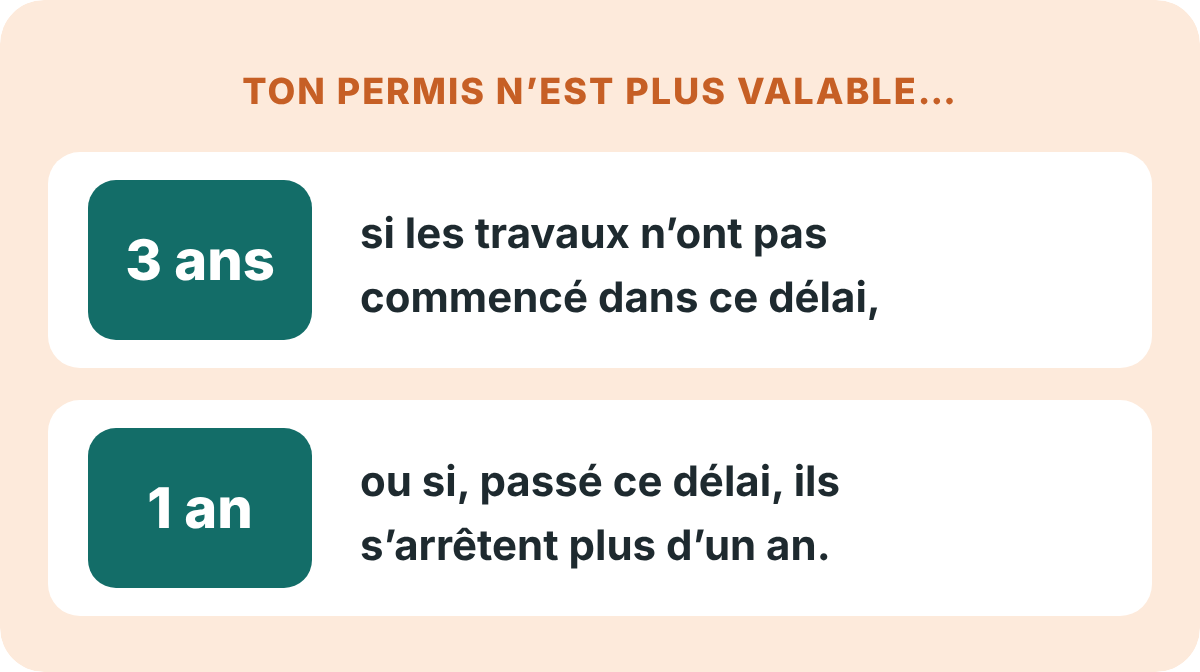
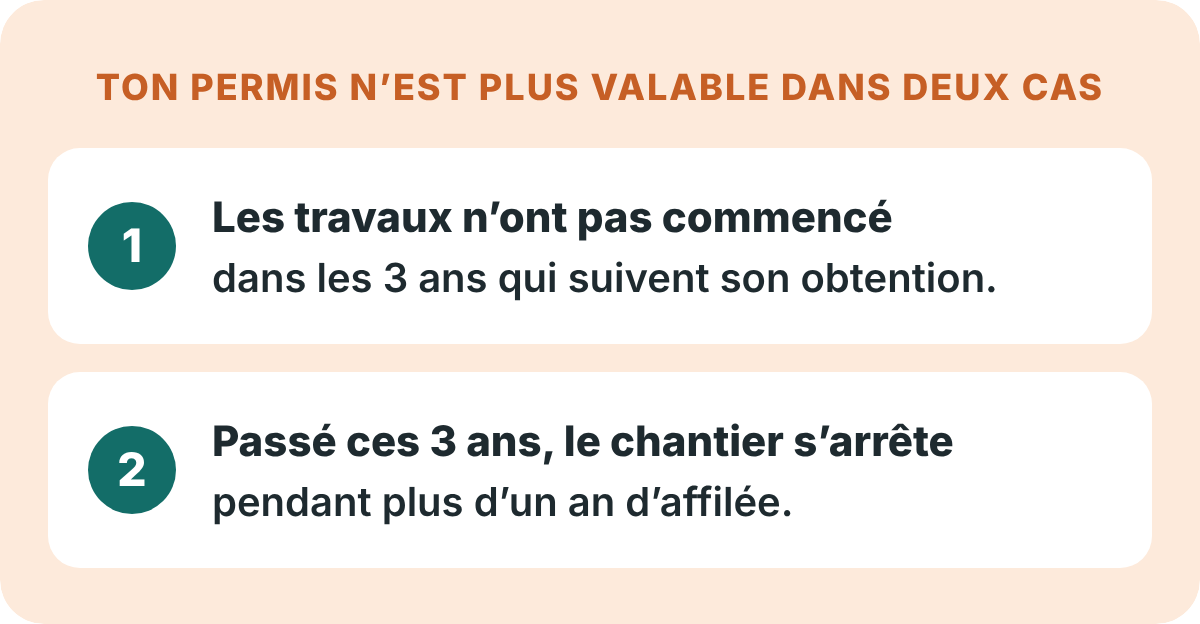
#155 : image du permis clarifiée, phrase de transition
Claude-Session: https://claude.ai/code/session_01QEEMWNZxp929Pj8nsugEVU

diff --git a/outils/illus155.py b/outils/illus155.py
@@ -28,13 +28,15 @@ rows=[("",["Il ne te rapporte aucun loyer."]),("",["Il ne t’apporte ni confort
 out["02-dort"]=rowcards(rows,MANGO_L,icon_fn=lambda cx,cy,k,h: cross(cx,cy,MANGO,r=18),size_l=21)
 
 # 03 LE PERMIS
-g=txt(300,52,"TON PERMIS N’EST PLUS VALABLE…",18,MANGO_D,800,ls=1)
-for k,(big,l1,l2) in enumerate([("3 ans","si les travaux n’ont pas","commencé dans ce délai,"),("1 an","ou si, passé ce délai, ils","s’arrêtent plus d’un an.")]):
-    y=76+k*124
-    g+=(f'<rect x="24" y="{y}" width="552" height="108" rx="16" fill="{WHITE}"/>'
-        + f'<rect x="44" y="{y+14}" width="112" height="80" rx="14" fill="{TEAL}"/>' + txt(100,y+64,big,28,WHITE,800)
-        + txt(180,y+48,l1,21,INK,700,anchor="start")+txt(180,y+80,l2,21,INK,700,anchor="start"))
-out["03-permis"]=svg(600,76+2*124+12,g,MANGO_L)
+g=txt(300,50,"TON PERMIS N’EST PLUS VALABLE DANS DEUX CAS",18,MANGO_D,800,ls=1)
+cas=[("1","Les travaux n’ont pas commencé","dans les 3 ans qui suivent son obtention."),
+     ("2","Passé ces 3 ans, le chantier s’arrête","pendant plus d’un an d’affilée.")]
+for k,(n,l1,l2) in enumerate(cas):
+    y=74+k*112
+    g+=(f'<rect x="24" y="{y}" width="552" height="98" rx="16" fill="{WHITE}"/>'
+        + f'<circle cx="66" cy="{y+49}" r="22" fill="{TEAL}"/>' + txt(66,y+57,n,23,WHITE,800)
+        + txt(106,y+42,l1,21,INK,800,anchor="start")+txt(106,y+72,l2,20,INK,600,anchor="start"))
+out["03-permis"]=svg(600,74+2*112+14,g,MANGO_L)
 
 # 04 À L'ABRI OU À L'ARRÊT
 def piggy(cx,cy,col=GREY):

diff --git a/outils/build155.py b/outils/build155.py
@@ -120,7 +120,7 @@ A(f'<p style="margin:0 0 28px 0;text-align:center;">{social_btn("Instagram",LINK
 import re as _re
 ALTS={
 "02-dort":"Ton argent ne te rapporte aucun loyer. Il ne t’apporte ni confort, ni toit. Et il vieillit avec le chantier, au soleil, sous la pluie et dans l’air marin.",
-"03-permis":"Ton permis n’est plus valable si les travaux n’ont pas commencé dans les 3 ans, ou si, passé ce délai, ils s’arrêtent plus d’un an d’affilée.",
+"03-permis":"Ton permis n’est plus valable dans deux cas. Un, les travaux n’ont pas commencé dans les 3 ans qui suivent son obtention. Deux, passé ces 3 ans, le chantier s’arrête pendant plus d’un an d’affilée.",
 "06-will":"Will te demande « Tu vois où je veux en venir ? »",
 "04-abri":"Ce qu’on croit, ton argent est à l’abri. En réalité, ton argent est à l’arrêt.",
 "09-will-methode":"Will te dit « Il te faut juste le bon ordre. »",

diff --git a/outils/article155.md b/outils/article155.md
@@ -20,7 +20,7 @@
 § Alors au lieu de te dire *« je finirai tout, un jour »*, demande-toi plutôt *« quelle partie je peux mettre au travail en premier ? »*.
 § Pour y arriver plus vite, il faudra peut-être emprunter. Je ne te dis pas de t’endetter à tout prix, mais de **comparer** le coût d’un crédit avec celui de plusieurs années sans aucun loyer.
 ## Ta méthode en 4 étapes pour remettre ton chantier au&nbsp;travail
-§ Pour choisir la partie à lancer en premier, puis la financer, pas besoin de tout chambouler.
+§ Et pour remettre ton chantier au travail, inutile de tout finir d’un coup.
 [IMAGE 09-will-methode]
 ### Étape 1 — Fais le compte de ce qui&nbsp;dort
 § Commence par additionner tout ce que tu as déjà mis dans la construction, terrain à part. Ressors les factures, les relevés et les devis payés, et même si c’est approximatif, écris un chiffre.
